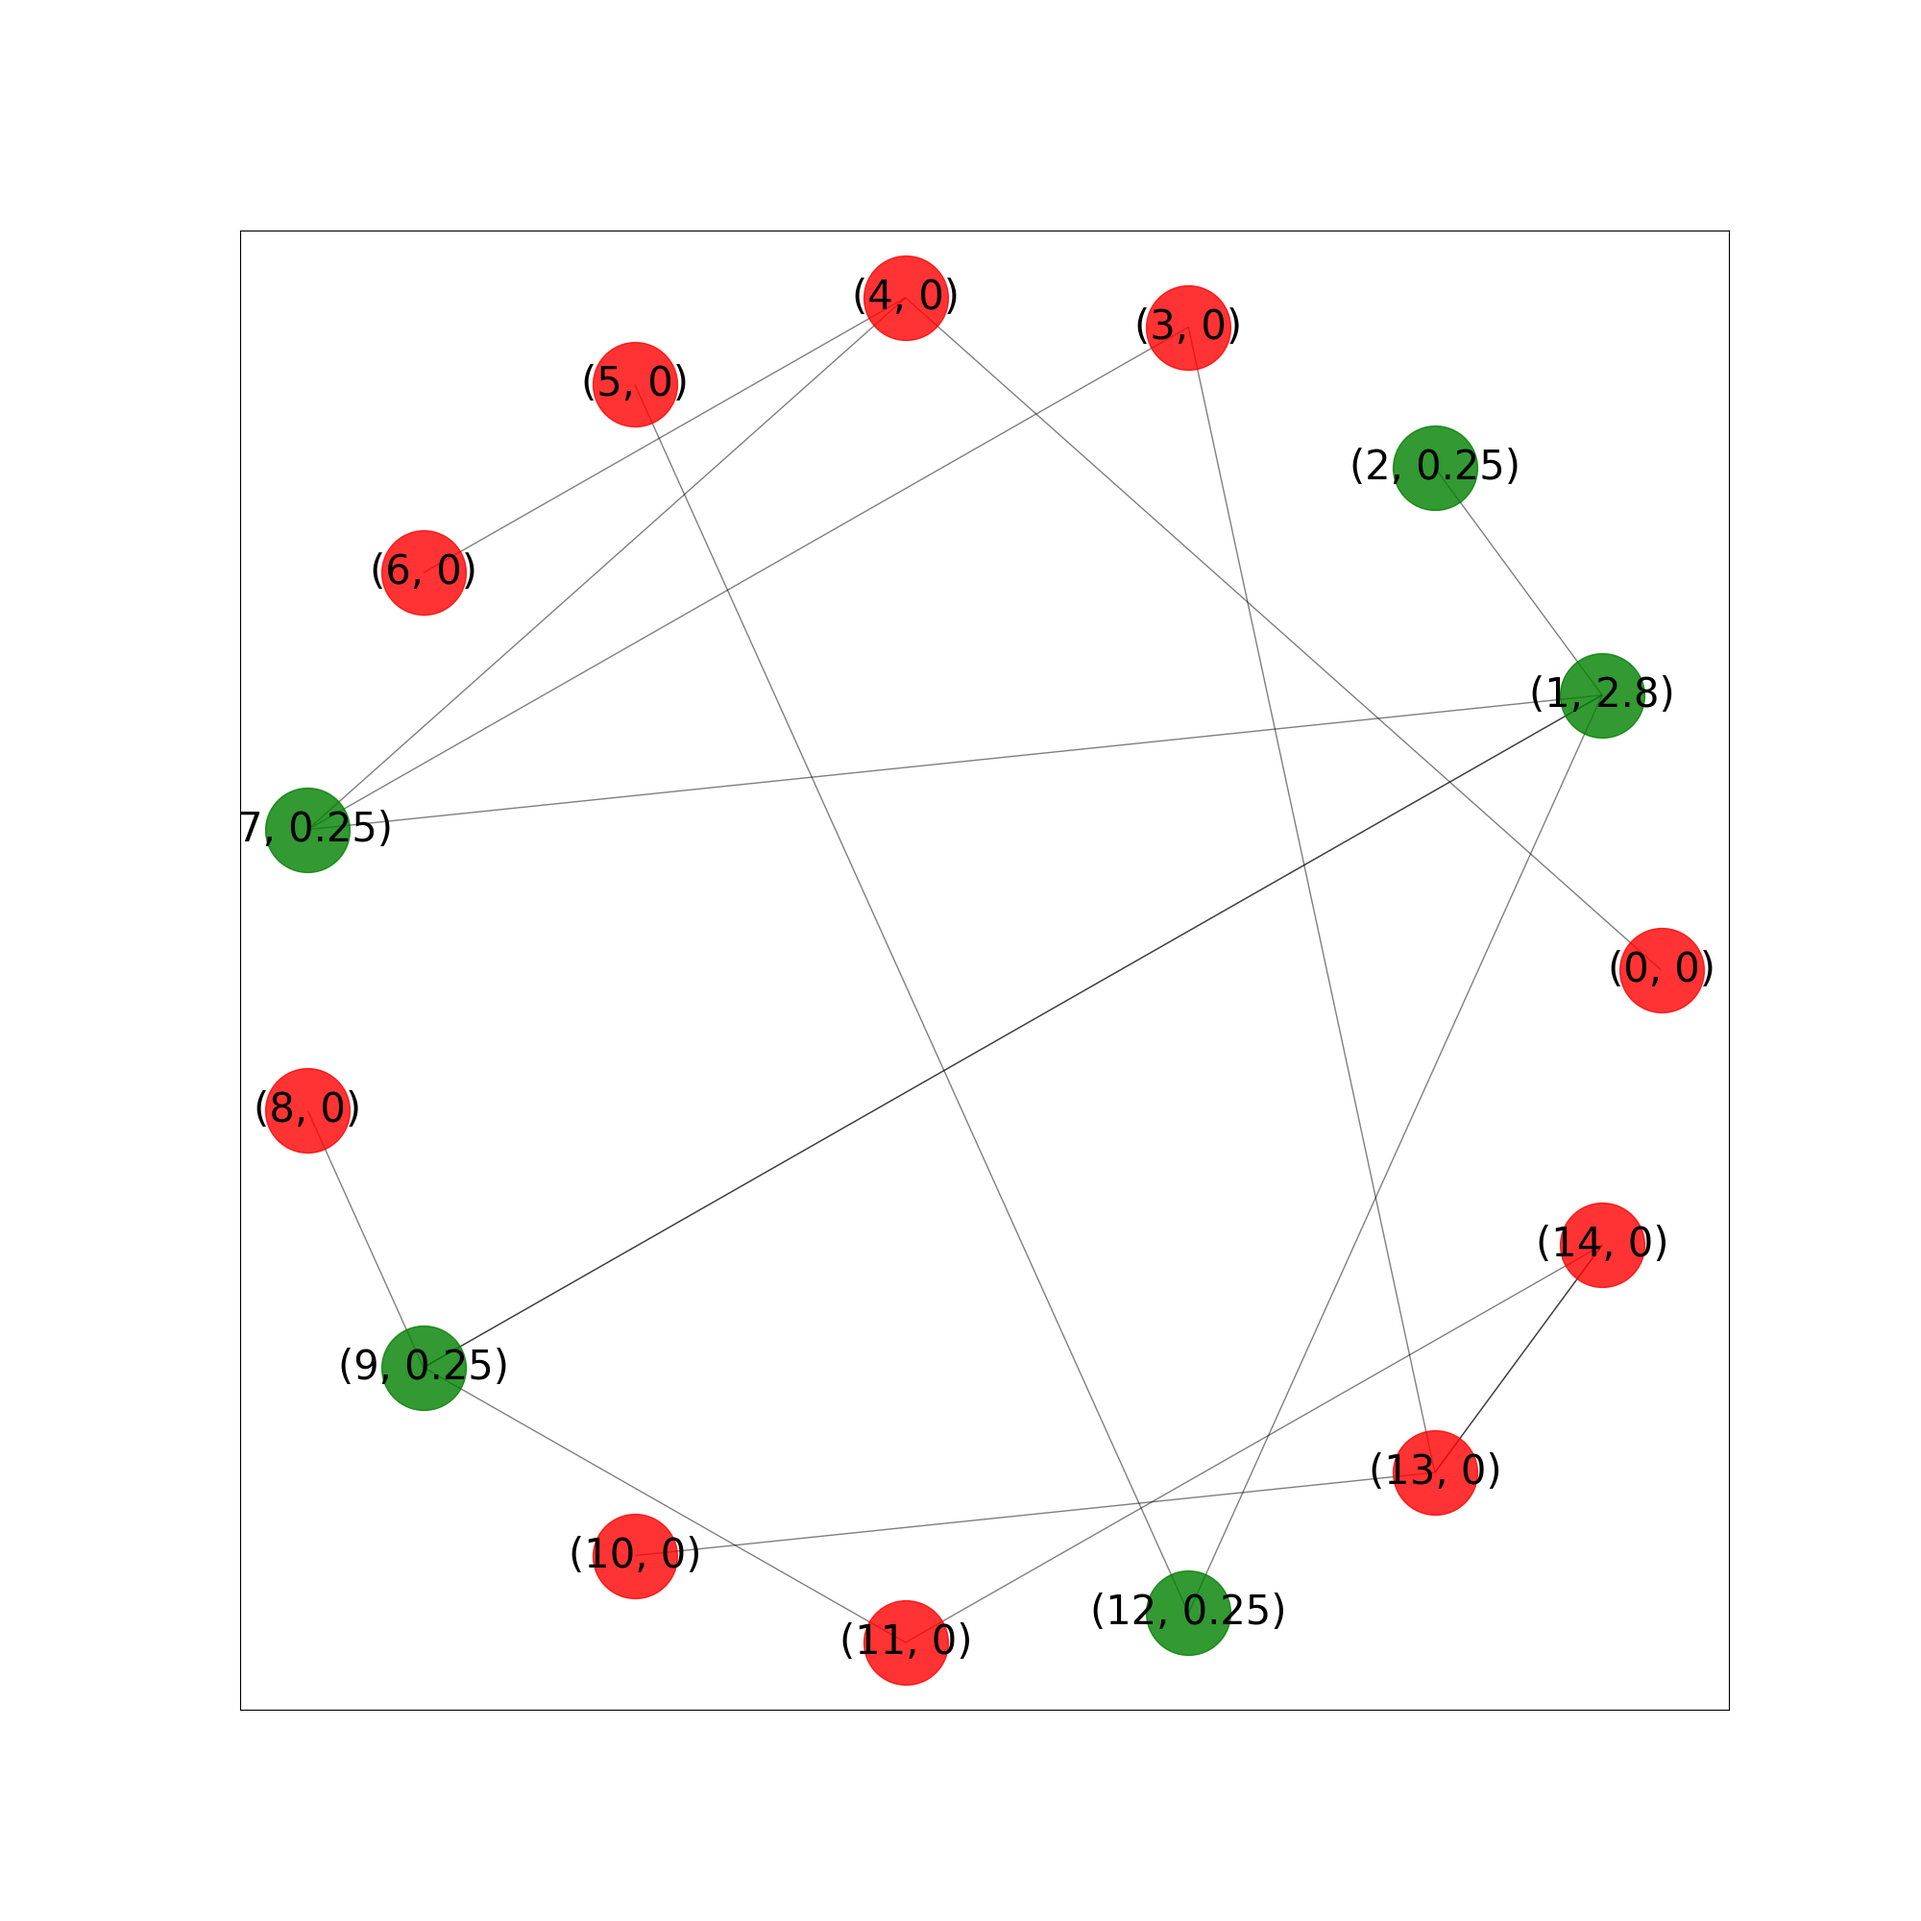
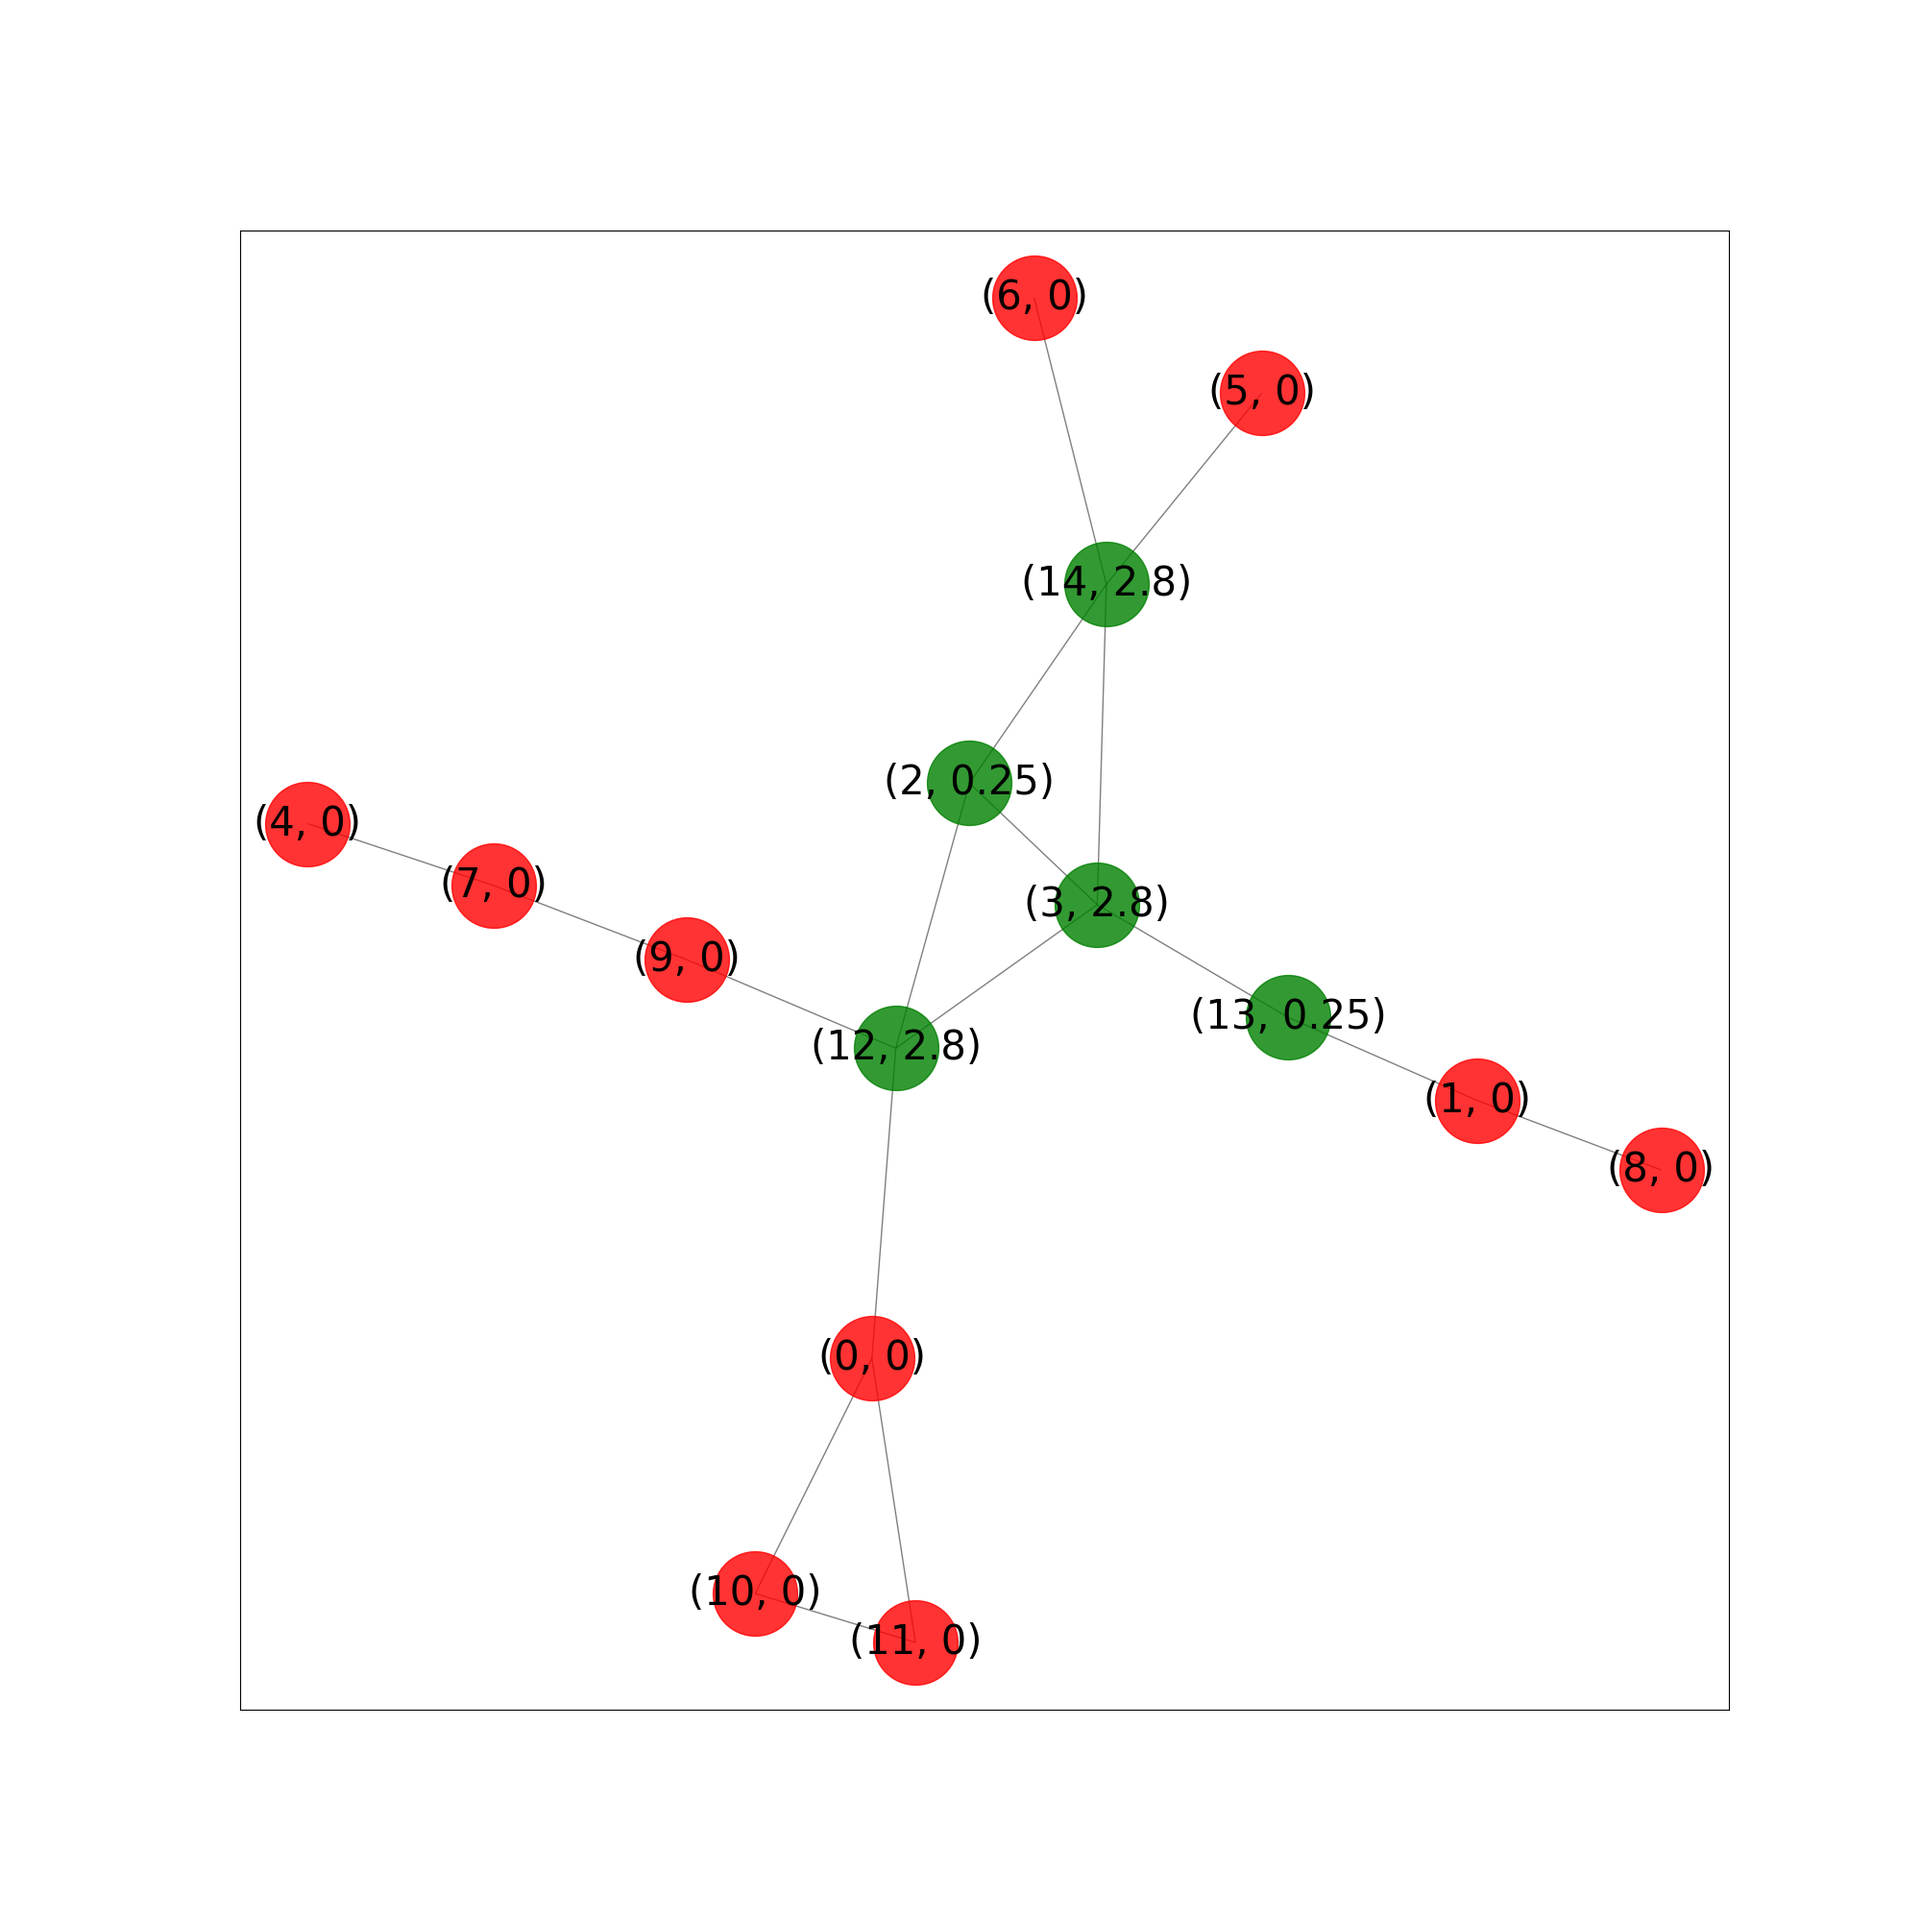
cool layout

diff --git a/simulation.py b/simulation.py
@@ -4,6 +4,7 @@ import numpy as np
 import random
 import utils
 import math
+import scipy
 
 class Agent:
     def __init__(self, id):
@@ -139,7 +140,7 @@ class Simulation:
     def drawGraphState(self):
         plt.figure(figsize=(20,20))
         # Get pos of nodes
-        pos=nx.shell_layout(self.G)
+        pos=nx.kamada_kawai_layout(self.G)
 
         # Find nodes which have adopted product
         adopted = [i for i in range(self.n) if self.G.nodes[i]["adopted"]]
@@ -173,6 +174,8 @@ class Simulation:
 
 
 if __name__ == "__main__":
+
+    random.seed(305324)
 
     #Set up graph
     nodes = []
